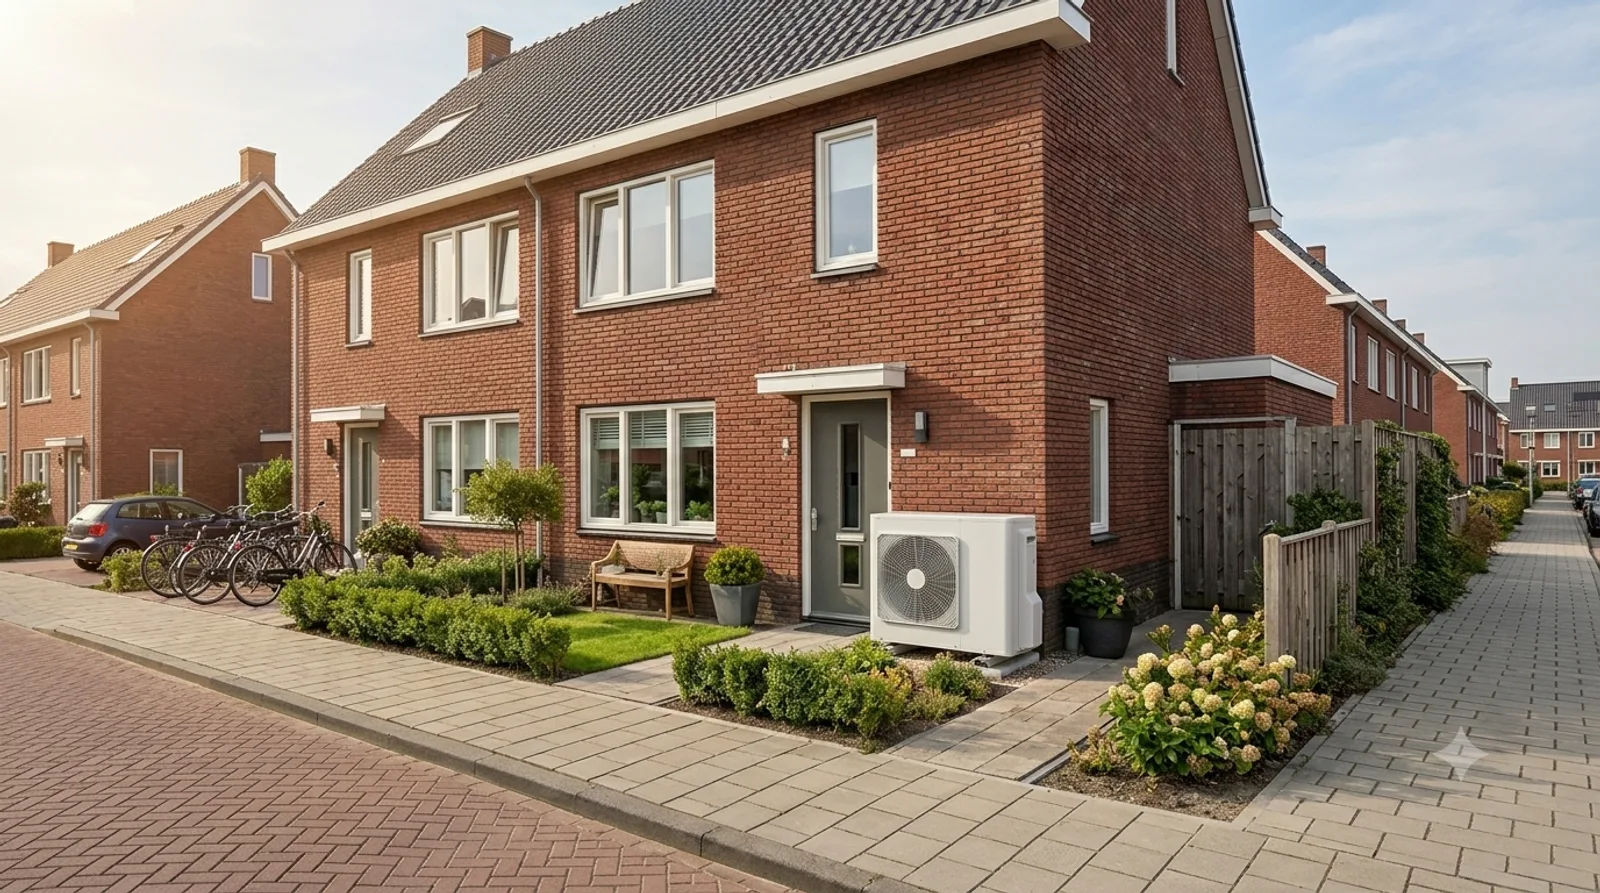
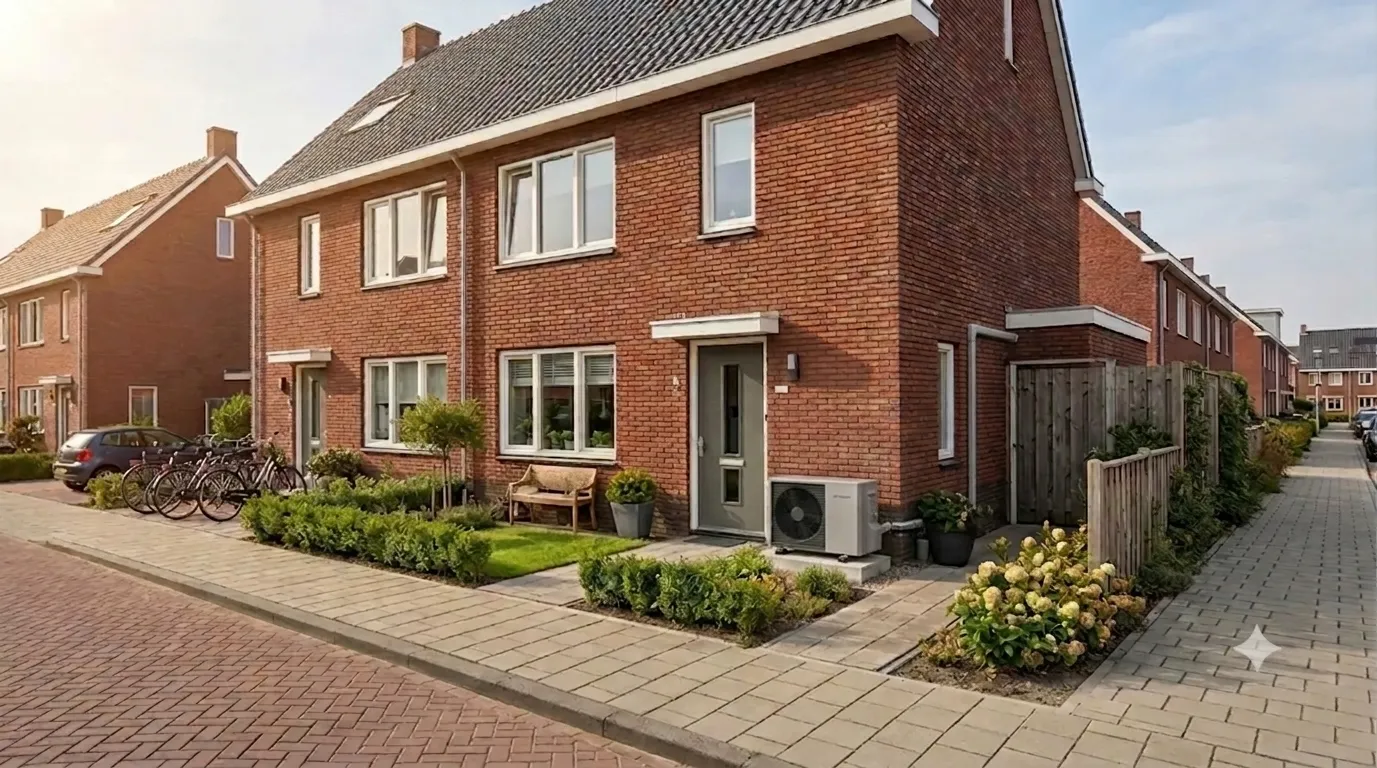
Vervang hero-foto door Hollands rijtjeshuis met warmtepomp
Nieuwe hero-afbeelding (geoptimaliseerd naar webp, 172KB) toont een
Hollandse rijtjeswoning met zichtbare warmtepomp-buitenunit. Afmetingen
van het Image-component aangepast naar 1377x768.

diff --git a/components/hero.tsx b/components/hero.tsx
@@ -78,9 +78,9 @@ export function Hero() {
           <div className="aspect-[4/3] max-h-[300px] overflow-hidden rounded-xl shadow-[0_24px_64px_rgba(13,31,22,0.15)] sm:max-h-none">
             <Image
               src="/images/hero-warmtepomp.webp"
-              alt="Warmtepomp buitenunit naast een rijtjeswoning"
-              width={1600}
-              height={893}
+              alt="Warmtepomp buitenunit naast een Hollandse rijtjeswoning"
+              width={1377}
+              height={768}
               priority
               className="h-full w-full object-cover"
             />